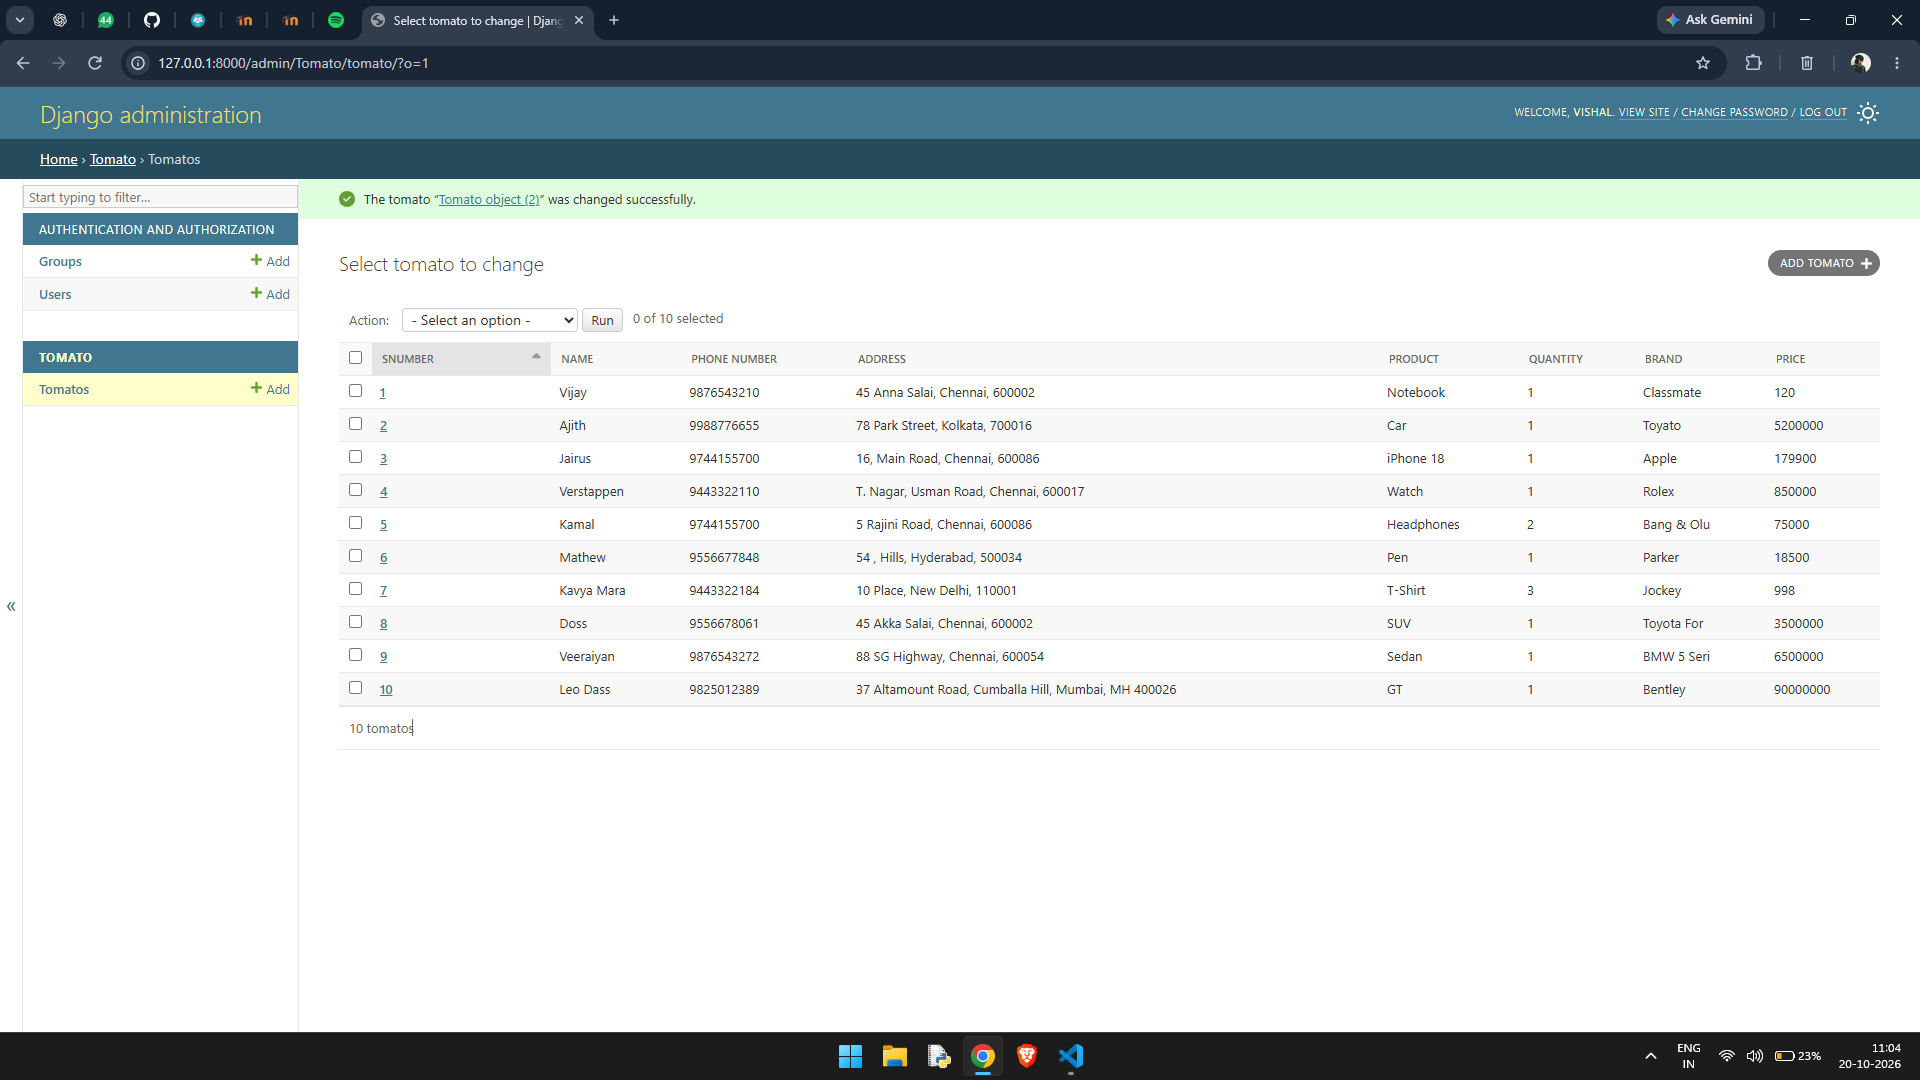
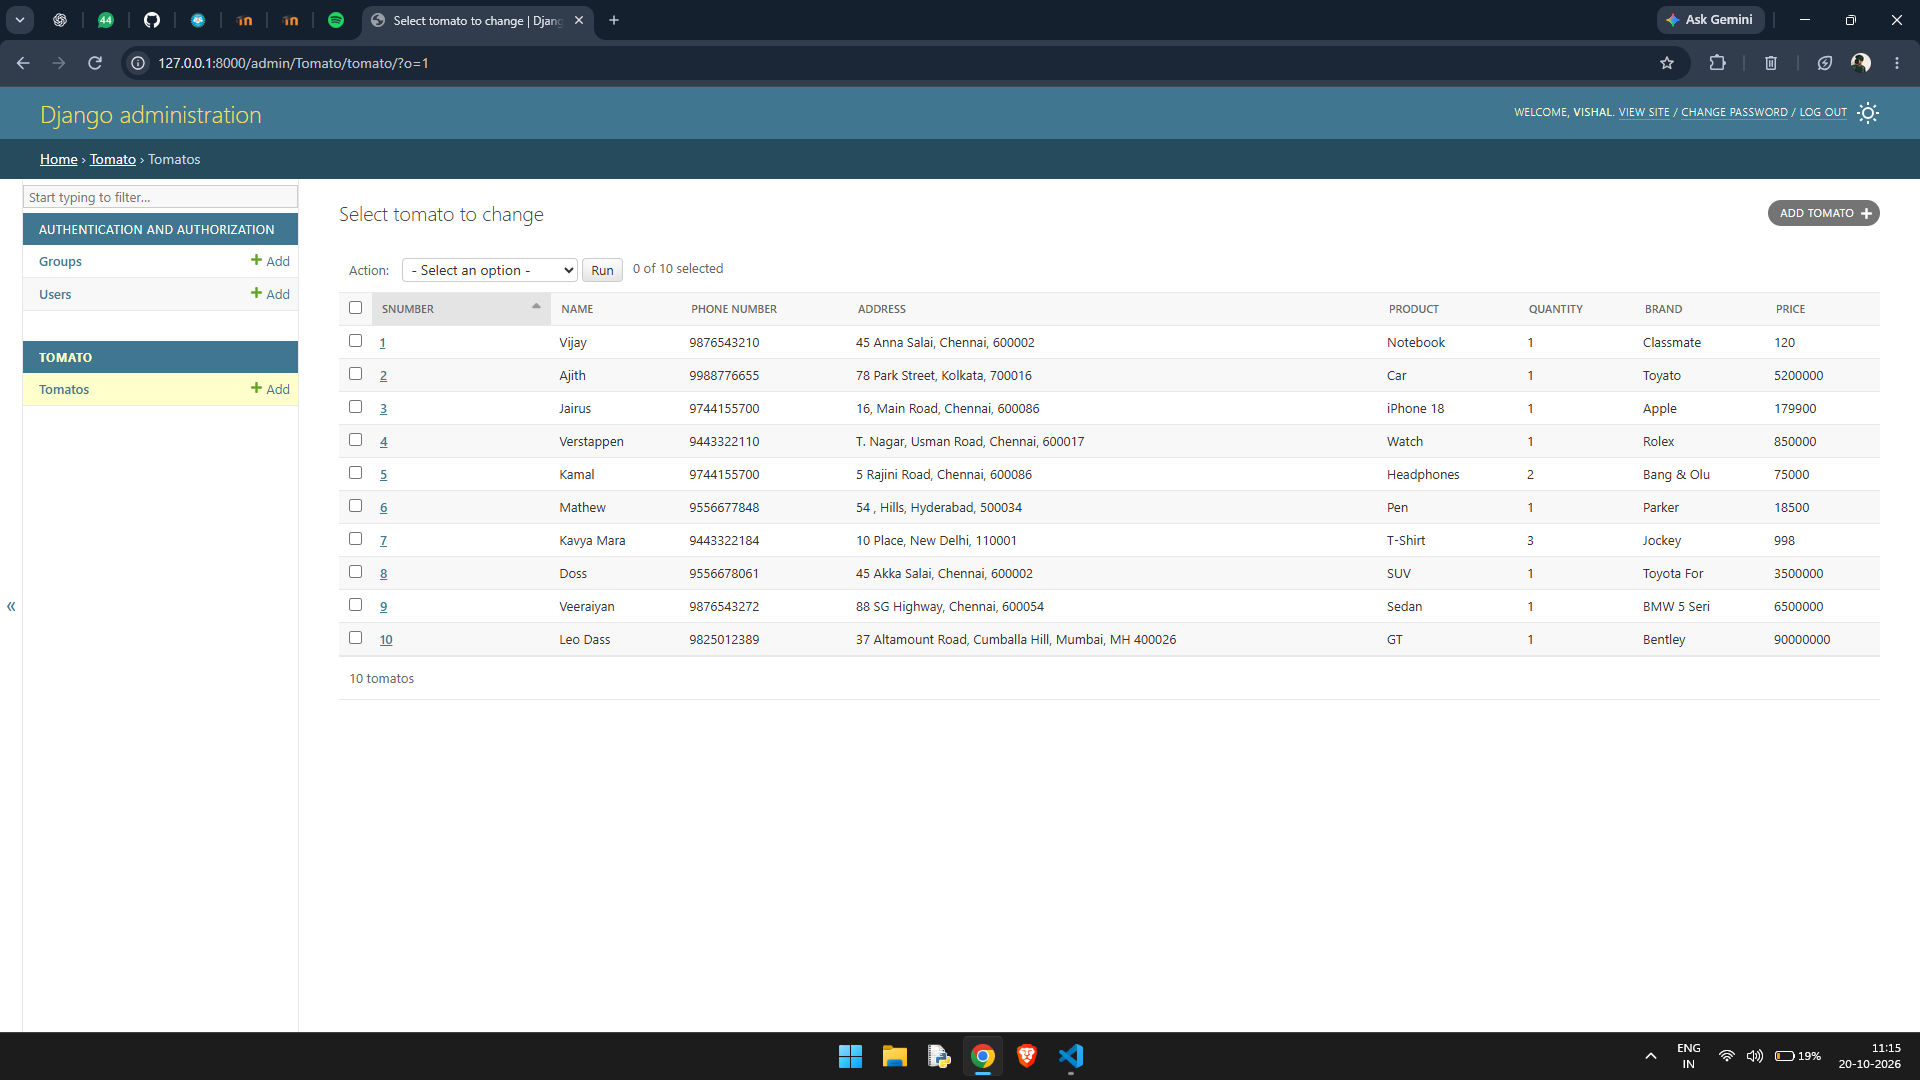
success

diff --git a/README.md b/README.md
@@ -31,7 +31,7 @@ Apply the migration files of the created app to the database
 Execute Django admin using localhost and create details for 10 entries
 
 ## PROGRAM
-```
+```python
 models.py
 
 from django.db import models
@@ -54,7 +54,6 @@ admin.py
 from django.contrib import admin
 from .models import Tomato,TomatoAdmin
 admin.site.register(Tomato,TomatoAdmin)
-
 ```
 
 
